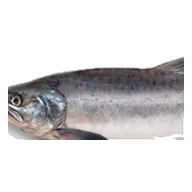
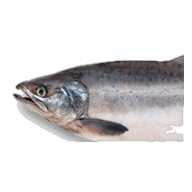
紅鮭の画像クロップ修正（口先の見切れ解消）

Changed region(s): [[0.0312, 0.2812, 0.9688, 0.75]]

diff --git a/scripts/crop_faces.py b/scripts/crop_faces.py
@@ -19,8 +19,8 @@ FACE_CROPS = {
     "アトランティックサーモン.jpg": (0.0, 0.05, 0.40, 0.95),
     # 左向き、左端寄り（背景グレーが多いので狭めにクロップ）
     "キングサーモン.jpg": (0.02, 0.10, 0.38, 0.78),
-    # 左上向き、頭が左上
-    "紅鮭.jpg": (0.10, 0.0, 0.55, 0.65),
+    # 左上向き、頭が左上（口先が切れないよう左を広げる）
+    "紅鮭.jpg": (0.02, 0.0, 0.52, 0.70),
     # 左向き、左下に顔
     "銀鮭.jpg": (0.0, 0.10, 0.40, 0.90),
     # 左向き、頭が左端
